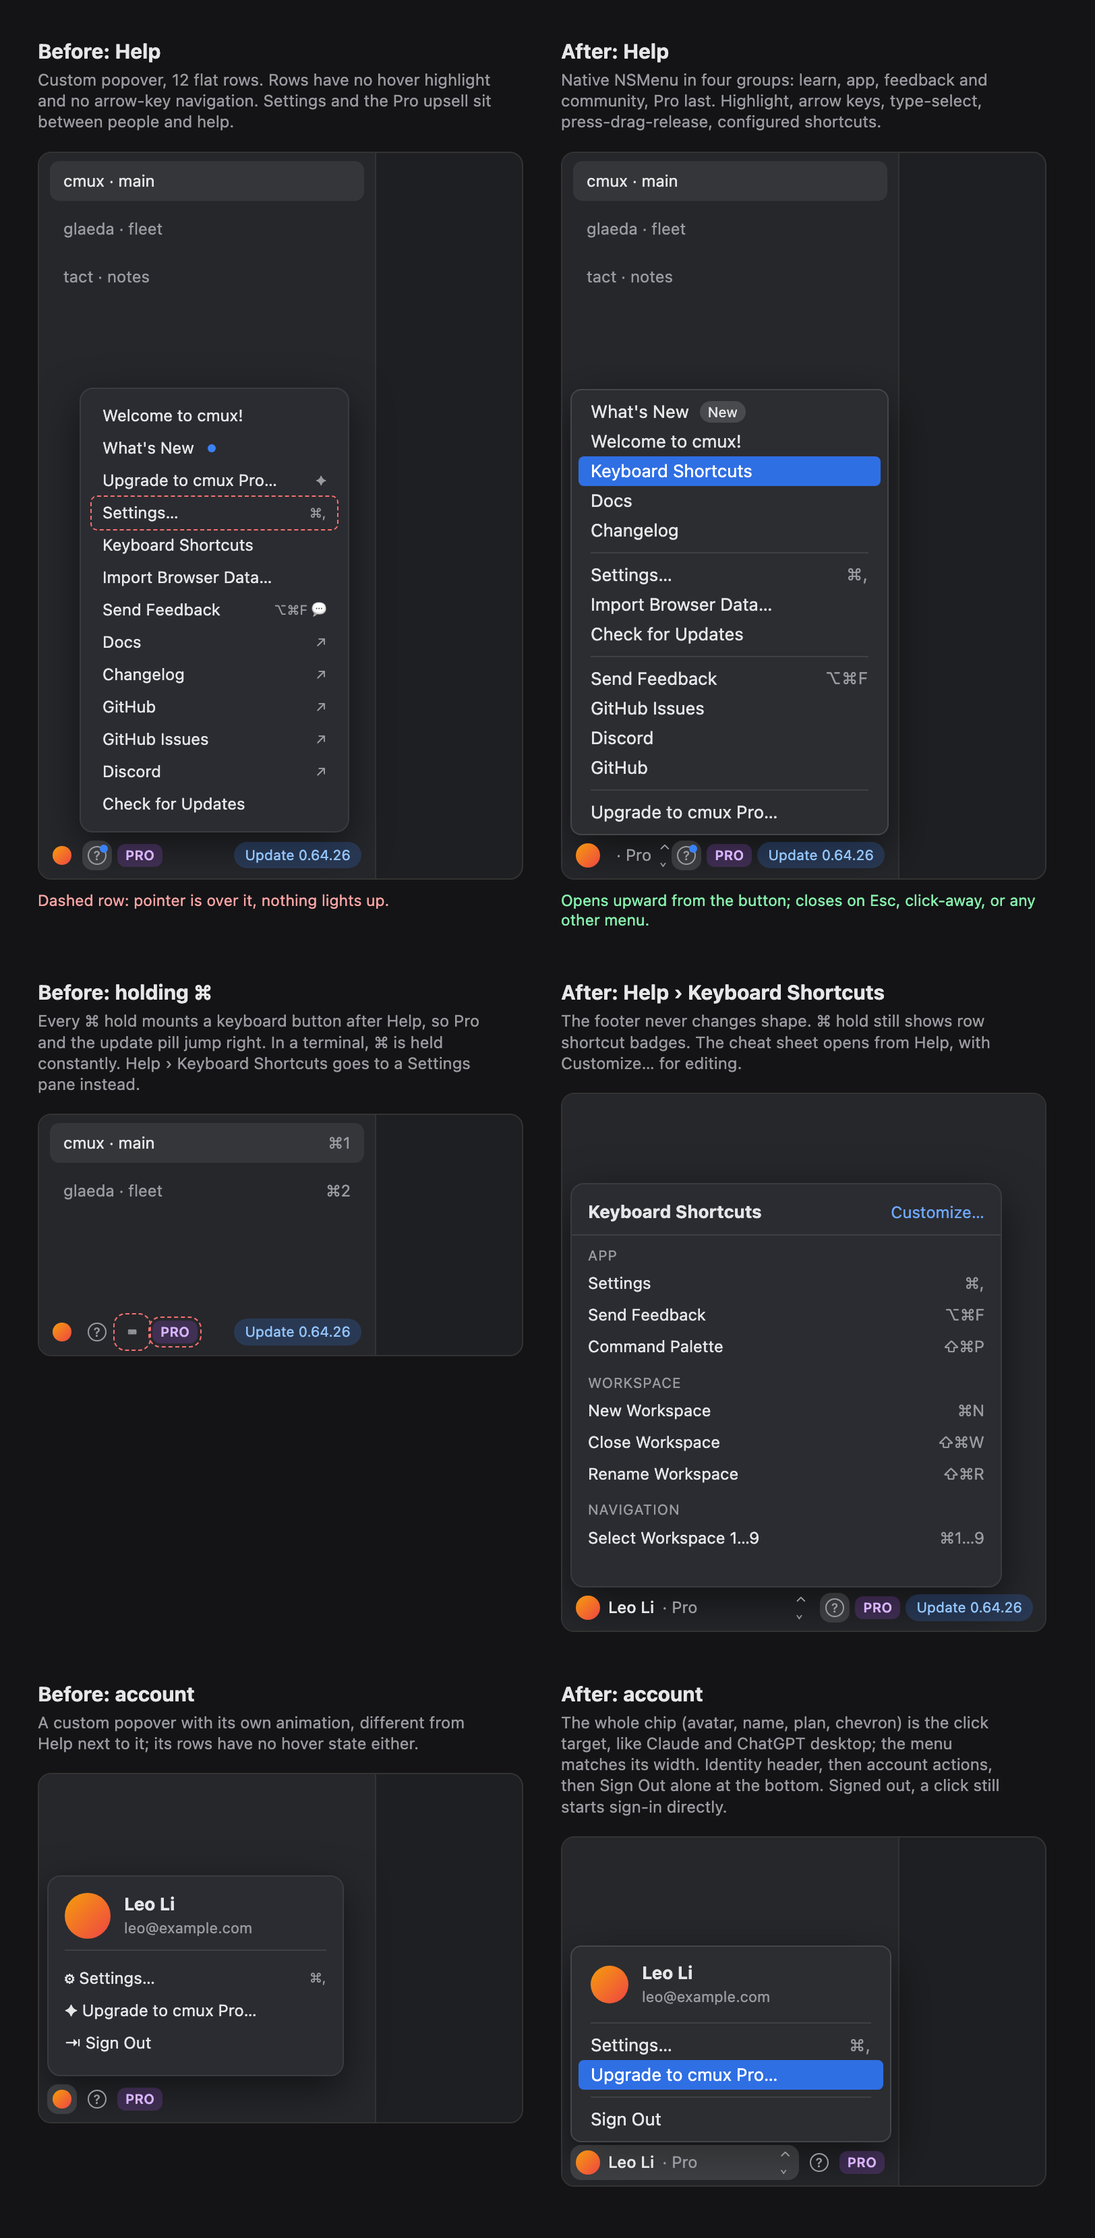
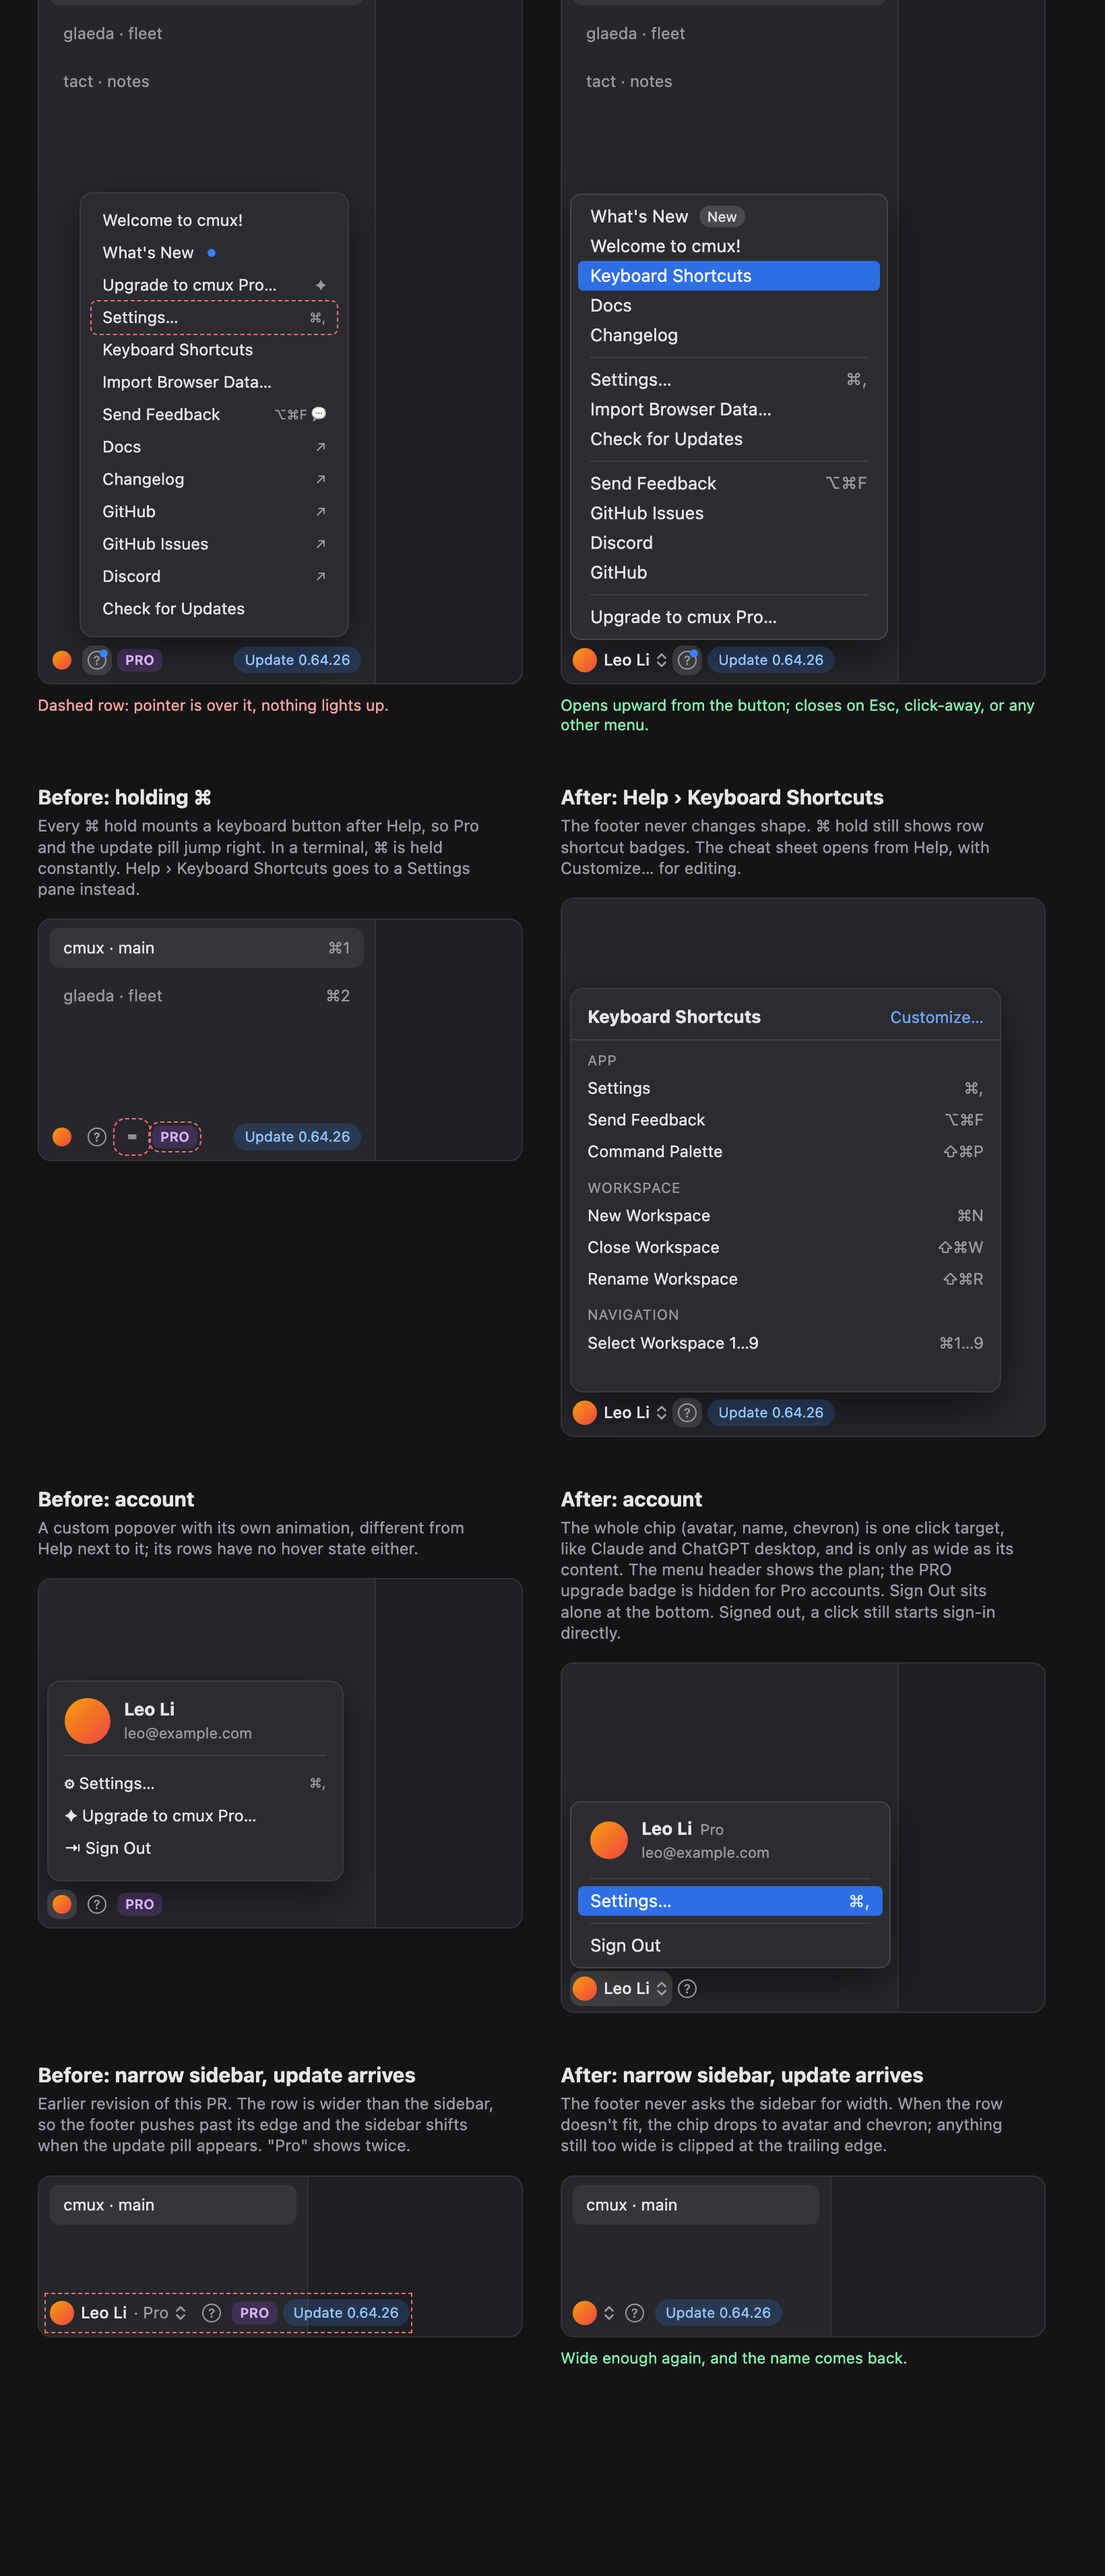
Update sidebar footer mockup: compact chip, narrow sidebar

diff --git a/footer.html b/footer.html
@@ -44,12 +44,15 @@ h2{font-size:15px;margin:0 0 4px}
 .sheet .r{display:flex;padding:4px 12px;font-size:12px}.sheet .r span{margin-left:auto;color:var(--sec)}
 .note{font-size:11.5px;color:#fca5a5;margin-top:8px}
 .good{font-size:11.5px;color:#86efac;margin-top:8px}
-.chip{flex:1;min-width:0;height:26px;display:flex;align-items:center;gap:6px;padding:0 6px 0 4px;border-radius:8px}
+.chip{flex:none;height:26px;display:flex;align-items:center;gap:5px;padding:0 4px 0 2px;border-radius:8px}
+.grp{display:flex;align-items:center;gap:0}
 .chip.on{background:rgba(255,255,255,.12)}
 .chip .av{width:18px;height:18px;flex:none}
-.chip .n{font-size:12px;font-weight:500;white-space:nowrap;overflow:hidden;text-overflow:ellipsis}
+.chip .n{font-size:12px;font-weight:500;white-space:nowrap;overflow:hidden;text-overflow:ellipsis;max-width:140px}
 .chip .p{font-size:12px;color:var(--sec);white-space:nowrap}
-.chip .cv{margin-left:auto;color:var(--sec);font-size:9px;line-height:1}
+.chip .cv{color:var(--sec);flex:none}
+.over{outline:1px dashed #f87171;outline-offset:1px}
+.hdr .pl{font-size:11px;color:var(--sec);font-weight:400;margin-left:6px}
 .footer.after{height:26px;bottom:4px}
 </style></head><body>
 
@@ -101,7 +104,7 @@ h2{font-size:15px;margin:0 0 4px}
     <div class="sep"></div>
     <div class="it">Upgrade to cmux Pro…</div>
    </div>
-   <div class="footer after"><div class="chip"><div class="av"></div><span class="n">Leo Li</span><span class="p">· Pro</span><span class="cv">⌃<br>⌄</span></div><div class="ib on"><div class="q">?</div><div class="dot"></div></div><span class="pro">PRO</span><span class="pill">Update 0.64.26</span></div>
+   <div class="footer after"><div class="grp"><div class="chip"><div class="av"></div><span class="n">Leo Li</span><svg class="cv" width="8" height="12" viewBox="0 0 8 12"><path d="M1.2 4.4 4 1.6l2.8 2.8M1.2 7.6 4 10.4l2.8-2.8" fill="none" stroke="currentColor" stroke-width="1.4" stroke-linecap="round" stroke-linejoin="round"/></svg></div><div class="ib on"><div class="q">?</div><div class="dot"></div></div></div><span class="pill">Update 0.64.26</span></div>
   </div></div>
   <div class="good">Opens upward from the button; closes on Esc, click-away, or any other menu.</div>
  </div>
@@ -129,7 +132,7 @@ h2{font-size:15px;margin:0 0 4px}
     <div class="sh">Navigation</div>
     <div class="r">Select Workspace 1…9<span>⌘1…9</span></div>
    </div>
-   <div class="footer after"><div class="chip"><div class="av"></div><span class="n">Leo Li</span><span class="p">· Pro</span><span class="cv">⌃<br>⌄</span></div><div class="ib on"><div class="q">?</div></div><span class="pro">PRO</span><span class="pill">Update 0.64.26</span></div>
+   <div class="footer after"><div class="grp"><div class="chip"><div class="av"></div><span class="n">Leo Li</span><svg class="cv" width="8" height="12" viewBox="0 0 8 12"><path d="M1.2 4.4 4 1.6l2.8 2.8M1.2 7.6 4 10.4l2.8-2.8" fill="none" stroke="currentColor" stroke-width="1.4" stroke-linecap="round" stroke-linejoin="round"/></svg></div><div class="ib on"><div class="q">?</div></div></div><span class="pill">Update 0.64.26</span></div>
   </div></div>
  </div>
 </div>
@@ -151,18 +154,37 @@ h2{font-size:15px;margin:0 0 4px}
  </div>
  <div class="col">
   <h2>After: account</h2>
-  <p class="cap">The whole chip (avatar, name, plan, chevron) is the click target, like Claude and ChatGPT desktop; the menu matches its width. Identity header, then account actions, then Sign Out alone at the bottom. Signed out, a click still starts sign-in directly.</p>
+  <p class="cap">The whole chip (avatar, name, chevron) is one click target, like Claude and ChatGPT desktop, and is only as wide as its content. The menu header shows the plan; the PRO upgrade badge is hidden for Pro accounts. Sign Out sits alone at the bottom. Signed out, a click still starts sign-in directly.</p>
   <div class="win" style="height:260px"><div class="sidebar">
    <div class="menu" style="min-width:238px">
-    <div class="hdr"><div class="av"></div><div><b>Leo Li</b><span>leo@example.com</span></div></div>
+    <div class="hdr"><div class="av"></div><div><b>Leo Li<span class="pl">Pro</span></b><span>leo@example.com</span></div></div>
     <div class="sep"></div>
-    <div class="it">Settings…<span class="k">⌘,</span></div>
-    <div class="it hl">Upgrade to cmux Pro…</div>
+    <div class="it hl">Settings…<span class="k">⌘,</span></div>
     <div class="sep"></div>
     <div class="it">Sign Out</div>
    </div>
-   <div class="footer after"><div class="chip on"><div class="av"></div><span class="n">Leo Li</span><span class="p">· Pro</span><span class="cv">⌃<br>⌄</span></div><div class="ib"><div class="q">?</div></div><span class="pro">PRO</span></div>
+   <div class="footer after"><div class="grp"><div class="chip on"><div class="av"></div><span class="n">Leo Li</span><svg class="cv" width="8" height="12" viewBox="0 0 8 12"><path d="M1.2 4.4 4 1.6l2.8 2.8M1.2 7.6 4 10.4l2.8-2.8" fill="none" stroke="currentColor" stroke-width="1.4" stroke-linecap="round" stroke-linejoin="round"/></svg></div><div class="ib"><div class="q">?</div></div></div></div>
   </div></div>
+ </div>
+</div>
+
+<div id="narrow" class="row" style="margin-top:36px">
+ <div class="col">
+  <h2>Before: narrow sidebar, update arrives</h2>
+  <p class="cap">Earlier revision of this PR. The row is wider than the sidebar, so the footer pushes past its edge and the sidebar shifts when the update pill appears. "Pro" shows twice.</p>
+  <div class="win" style="height:120px"><div class="sidebar" style="width:200px;overflow:visible">
+   <div class="ws sel">cmux · main</div>
+   <div class="footer after over" style="right:auto"><div class="chip" style="flex:none"><div class="av"></div><span class="n">Leo Li</span><span class="p">· Pro</span><svg class="cv" width="8" height="12" viewBox="0 0 8 12"><path d="M1.2 4.4 4 1.6l2.8 2.8M1.2 7.6 4 10.4l2.8-2.8" fill="none" stroke="currentColor" stroke-width="1.4" stroke-linecap="round" stroke-linejoin="round"/></svg></div><div class="ib"><div class="q">?</div></div><span class="pro">PRO</span><span class="pill">Update 0.64.26</span></div>
+  </div></div>
+ </div>
+ <div class="col">
+  <h2>After: narrow sidebar, update arrives</h2>
+  <p class="cap">The footer never asks the sidebar for width. When the row doesn't fit, the chip drops to avatar and chevron; anything still too wide is clipped at the trailing edge.</p>
+  <div class="win" style="height:120px"><div class="sidebar" style="width:200px">
+   <div class="ws sel">cmux · main</div>
+   <div class="footer after" style="overflow:hidden"><div class="grp"><div class="chip"><div class="av"></div><svg class="cv" width="8" height="12" viewBox="0 0 8 12"><path d="M1.2 4.4 4 1.6l2.8 2.8M1.2 7.6 4 10.4l2.8-2.8" fill="none" stroke="currentColor" stroke-width="1.4" stroke-linecap="round" stroke-linejoin="round"/></svg></div><div class="ib"><div class="q">?</div></div></div><span class="pill">Update 0.64.26</span></div>
+  </div></div>
+  <div class="good">Wide enough again, and the name comes back.</div>
  </div>
 </div>
 </body></html>
